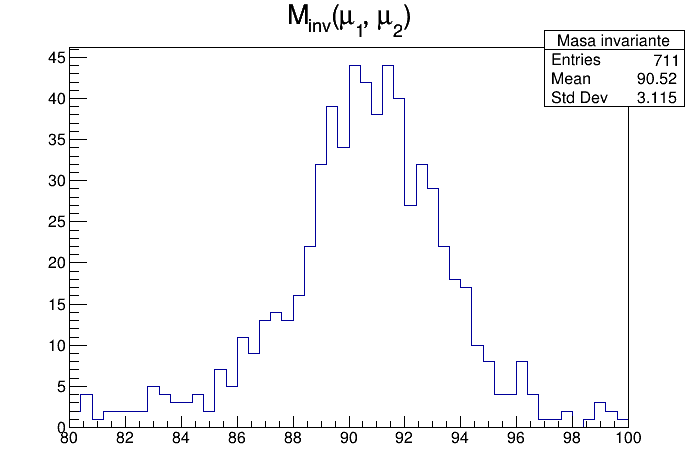
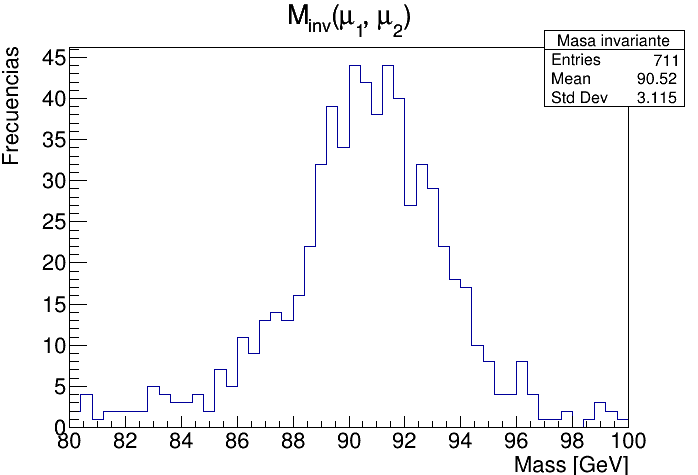
cambios de formato a incluir

diff --git a/Decaimiento Z/ZtoMuMu.C b/Decaimiento Z/ZtoMuMu.C
@@ -14,11 +14,11 @@ R__LOAD_LIBRARY(libDelphes.so)
 
 //------------------------------------------------------------------------------
 
-void ZtoMuMu_Delphes(const char *inputFile)
+void ZtoMuMu(const char *inputFile)
 {
   gSystem->Load("libDelphes");
 
-  // Create chain of root trees 
+  // Create chain of root trees
   TChain chain("Delphes");
   chain.Add(inputFile);
 
@@ -29,9 +29,9 @@ void ZtoMuMu_Delphes(const char *inputFile)
   TClonesArray *branchMuon = treeReader->UseBranch("Muon");
 
   // Book histograms
-  TH1 *histMass = new TH1F("mass", "M_{inv}(#mu_{1}, #Mu_{2})", 50, 80.0, 100.0);
-  TH1 *histPT1 = new TH1F("pt1", "PT(#mu_{1})", 50, 10.0, 80.0);
-  TH1 *histPT2 = new TH1F("pt2", "PT(#Mu_{2})", 50, 10.0, 60.0);
+  TH1 *histMass = new TH1F("Masa invariante", "M_{inv}(#mu_{1}, #mu_{2})", 50, 80.0, 100.0);
+  TH1 *histPT1 = new TH1F("mom. transv. 1", "P_T(#mu_{1})", 50, 10.0, 80.0);
+  TH1 *histPT2 = new TH1F("mom. transv. 2", "P_T(#mu_{2})", 50, 10.0, 60.0);
   // Loop over all events
   for(Int_t entry = 0; entry < numberOfEntries; ++entry)
   {
@@ -56,15 +56,35 @@ void ZtoMuMu_Delphes(const char *inputFile)
   }
 
   // Show resulting histograms
-  TCanvas *c1 = new TCanvas("MASAA","MASA");
+  TCanvas *c1 = new TCanvas("c1","c1");
+  histMass->GetXaxis()->SetTitle("Mass [GeV]");
+  histMass->GetYaxis()->SetTitle("Frecuencias");
+  histMass->GetXaxis()->SetLabelSize(.05);
+  histMass->GetYaxis()->SetLabelSize(.05);
+  histMass->GetXaxis()->SetTitleSize(.05);
+  histMass->GetYaxis()->SetTitleSize(.05);
   histMass->Draw();
+
   c1 -> SaveAs("mass.png");
 
   TCanvas *c2 = new TCanvas("c2", "c2");
+  histPT1->GetXaxis()->SetTitle("Mass [GeV]");
+  histPT1->GetYaxis()->SetTitle("Frecuencias");
+  histPT1->GetXaxis()->SetLabelSize(.05);
+  histPT1->GetYaxis()->SetLabelSize(.05);
+  histPT1->GetXaxis()->SetTitleSize(.05);
+  histPT1->GetYaxis()->SetTitleSize(.05);
   histPT1 ->Draw();
   c2 -> SaveAs("pt1.png");
   
   TCanvas *c3 = new TCanvas("c3", "c3");
+  histPT2->GetXaxis()->SetTitle("Mass [GeV]");
+  histPT2->GetYaxis()->SetTitle("Frecuencias");
+  histPT2->GetXaxis()->SetLabelSize(.05);
+  histPT2->GetYaxis()->SetLabelSize(.05);
+  histPT2->GetXaxis()->SetTitleSize(.05);
+  histPT2->GetYaxis()->SetTitleSize(.05);
+  histPT2->Draw();
   histPT2 ->Draw();
   c3 -> SaveAs("pt2.png");
 }
